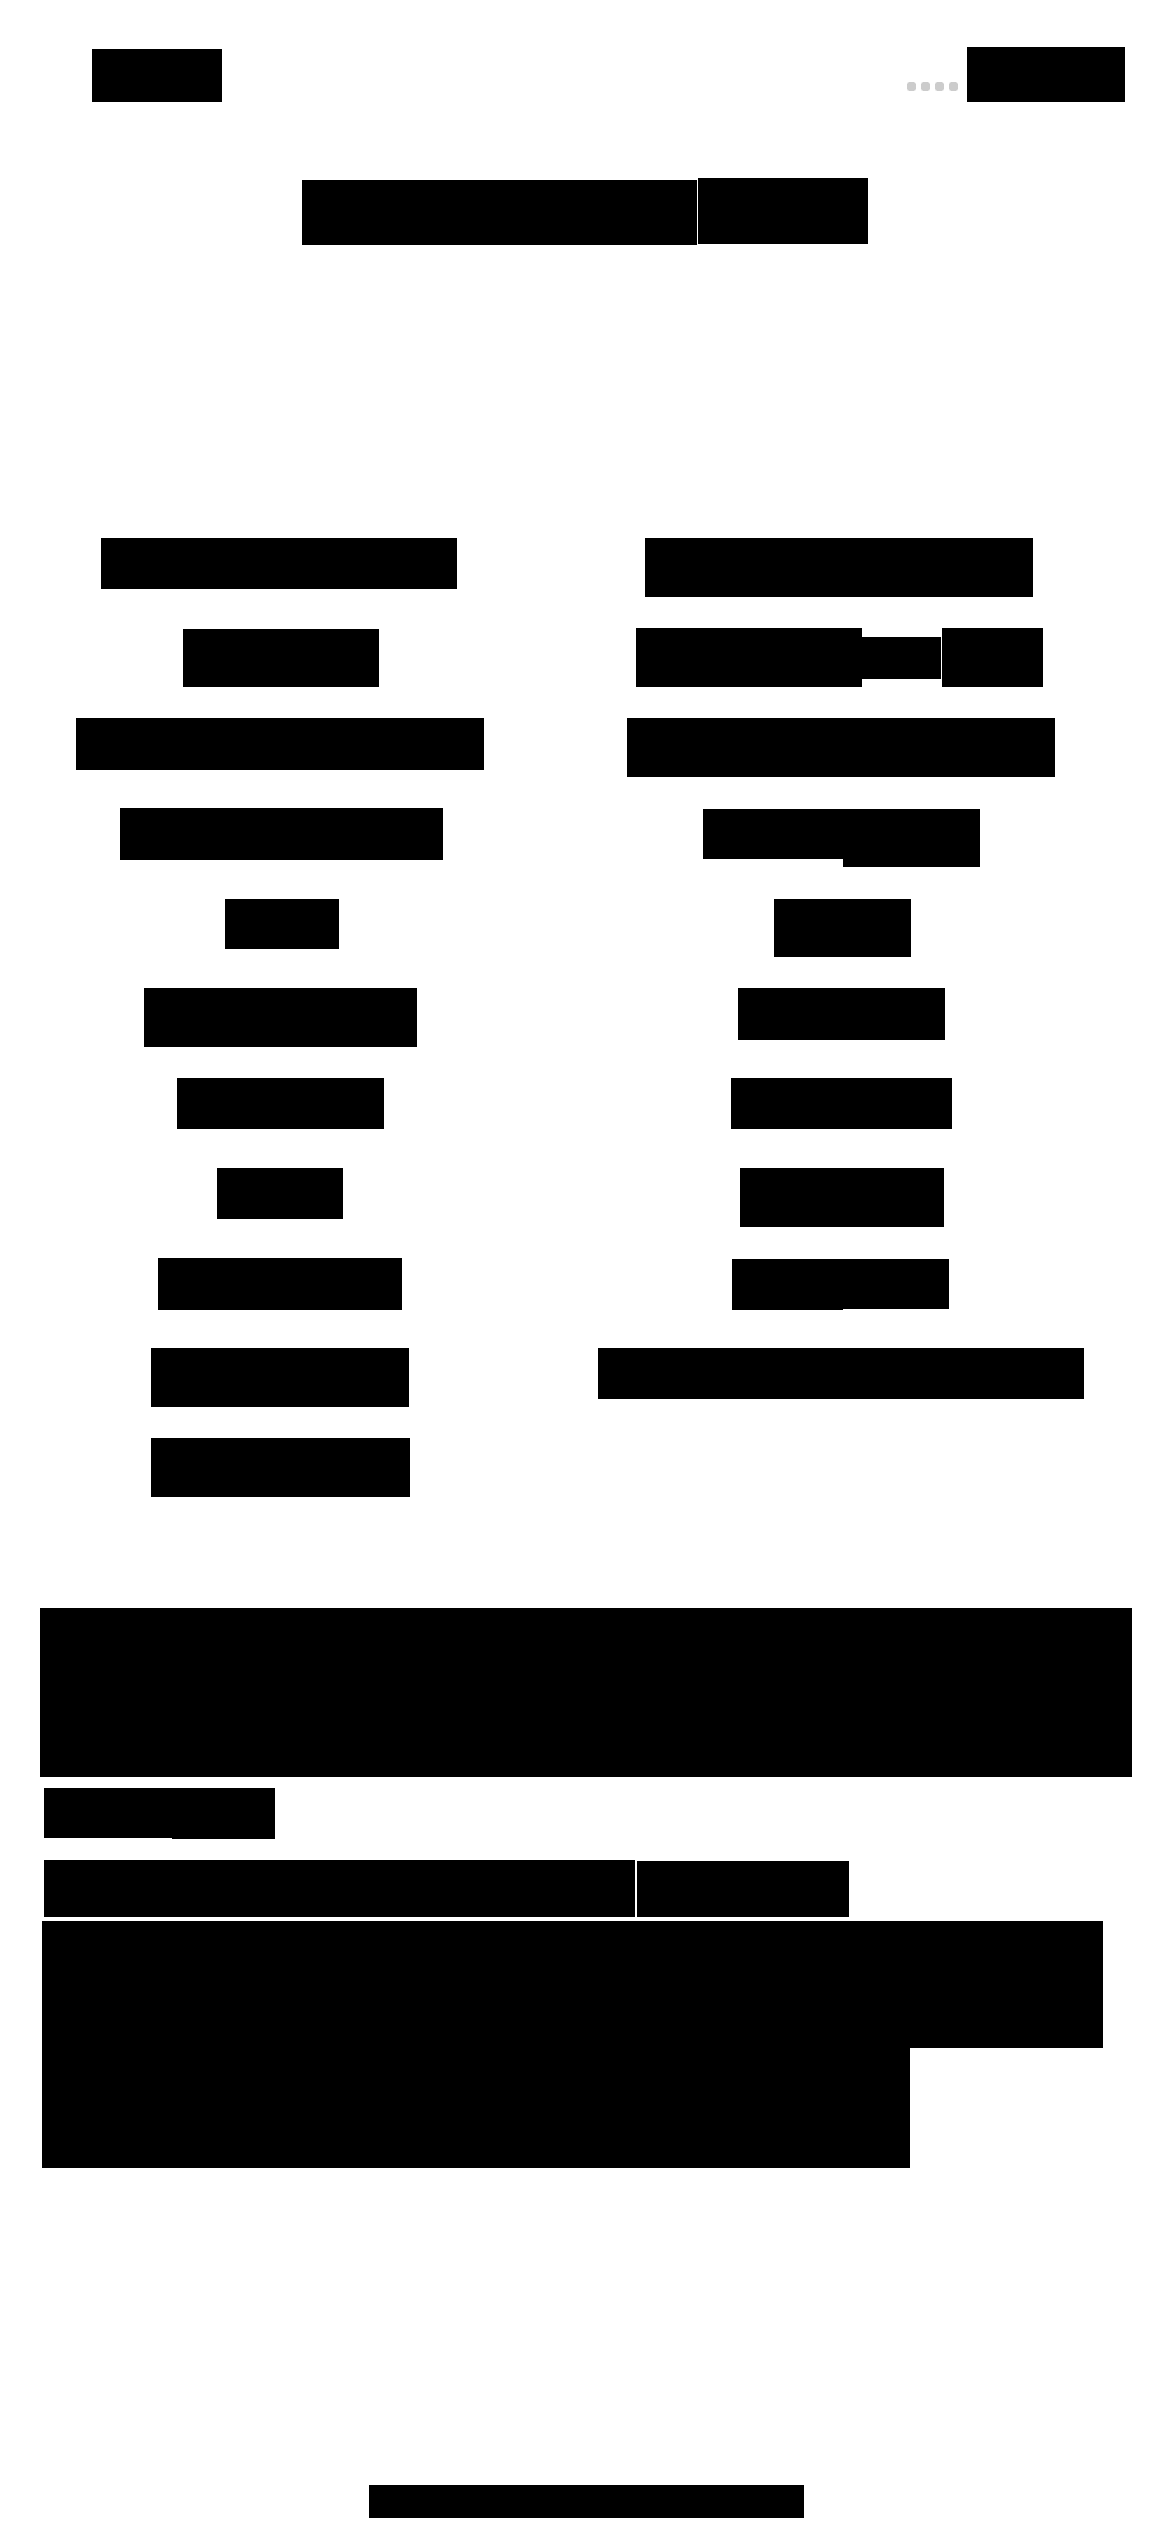
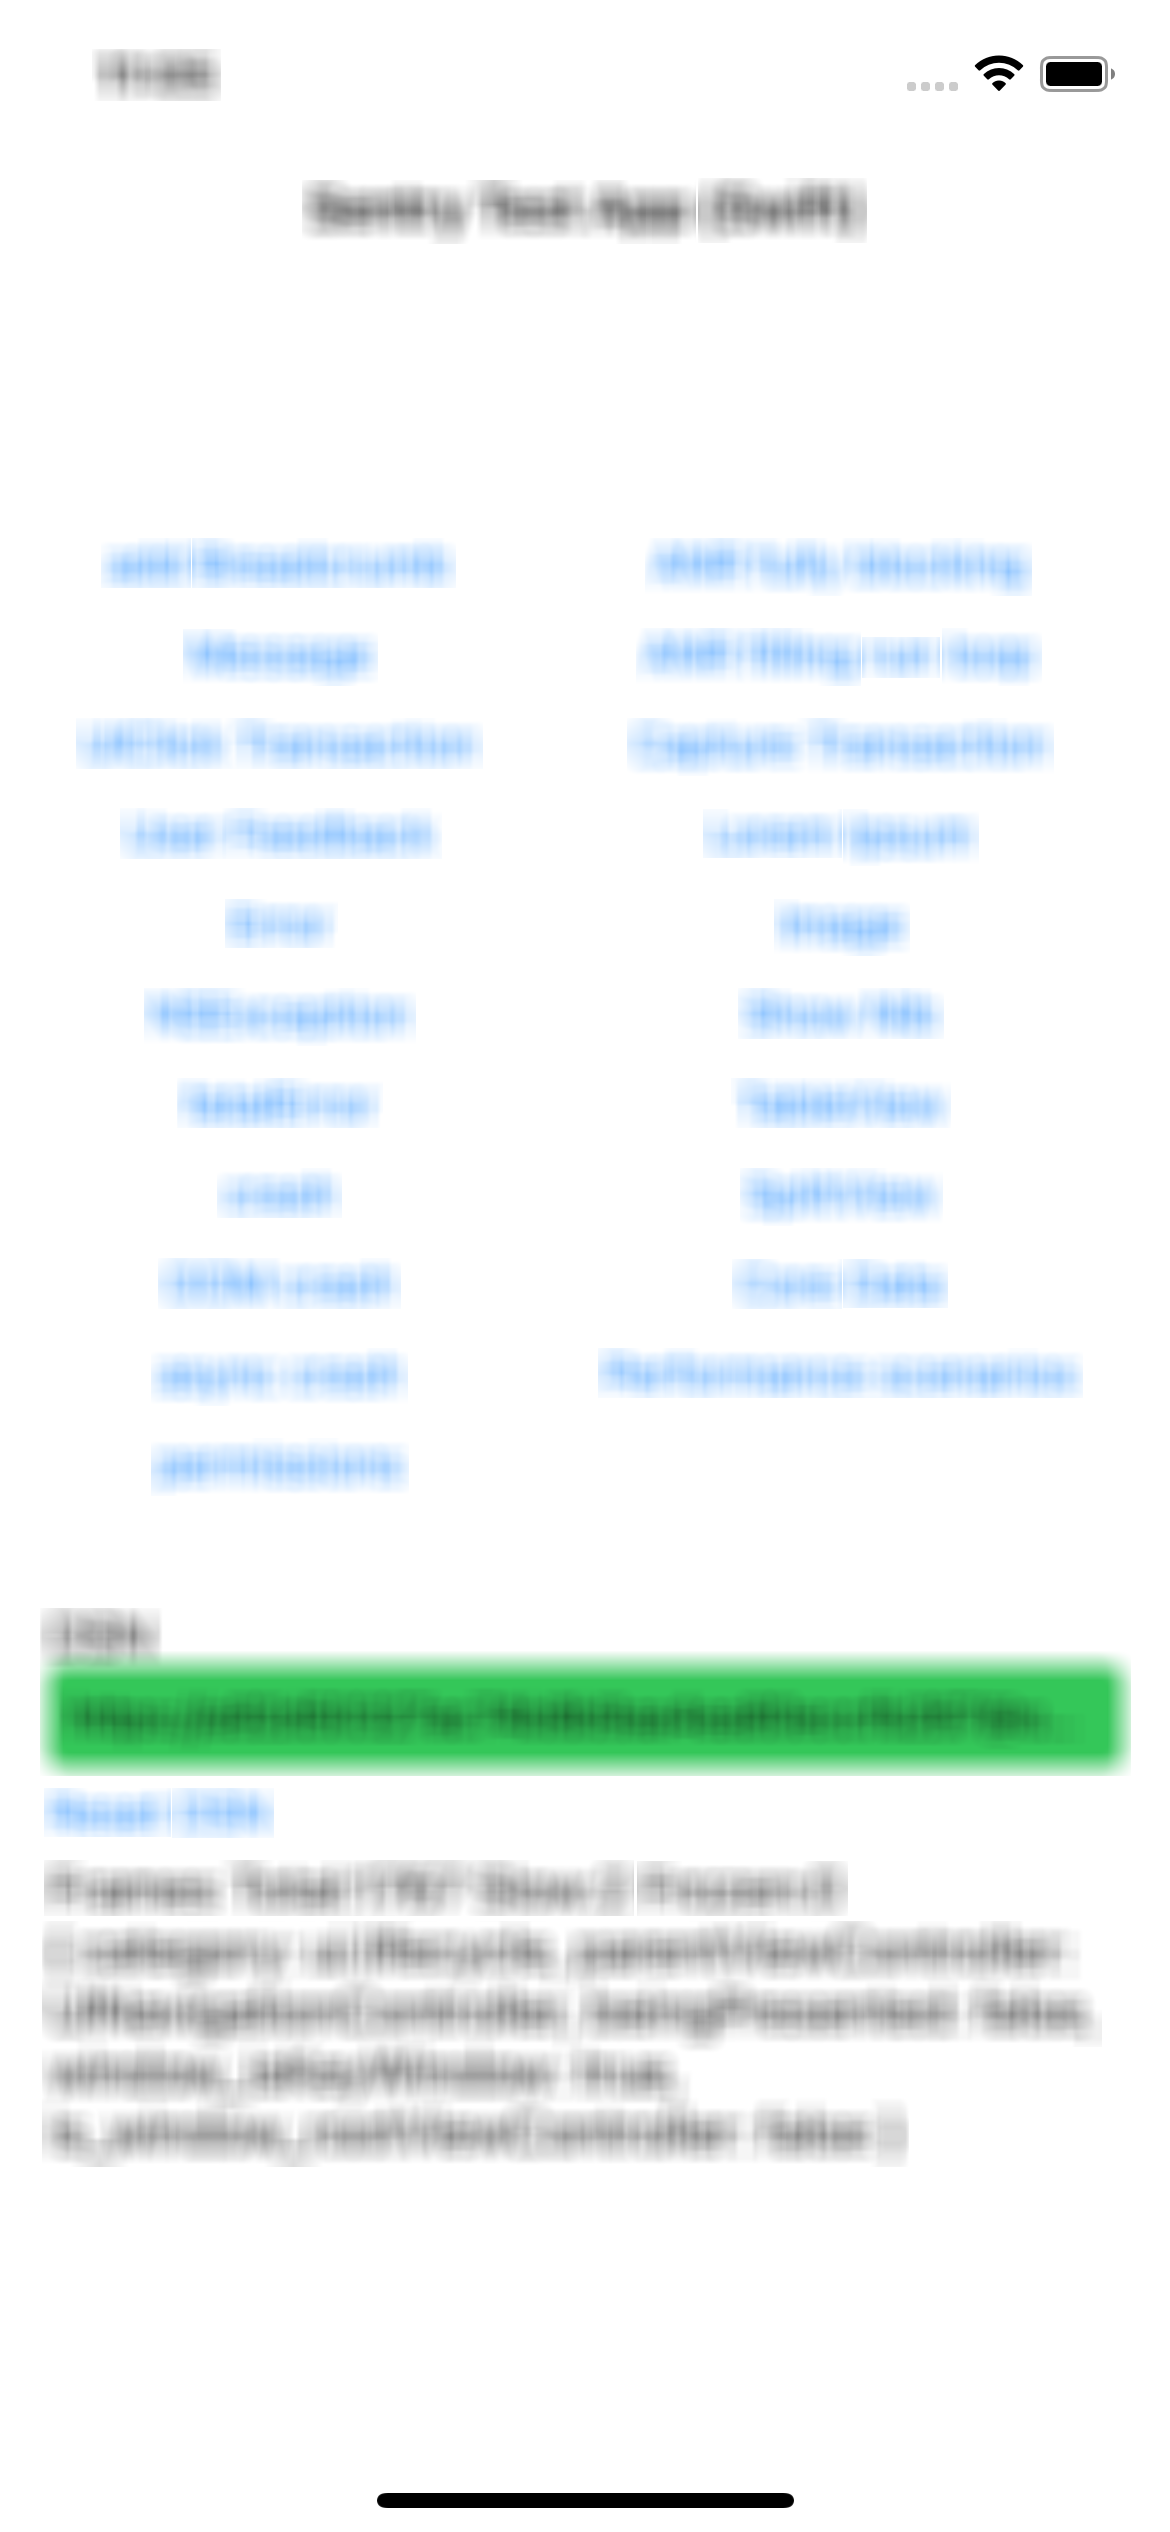
countour update with blur

diff --git a/strippers/contour.py b/strippers/contour.py
@@ -12,6 +12,9 @@ class ContourStripper:
     def strip(self):
         # Convert the image to gray scale
         gray = cv2.cvtColor(self.input_img, cv2.COLOR_BGR2GRAY)
+        
+        #blurried image
+        blurried = cv2.blur(self.input_img, (30, 30))
 
         # Performing OTSU threshold
         ret, thresh1 = cv2.threshold(gray, 0, 255, cv2.THRESH_OTSU | cv2.THRESH_BINARY_INV)
@@ -42,11 +45,10 @@ class ContourStripper:
             # Apply OCR on the cropped image
             text = pytesseract.image_to_string(cropped)
 
-            # Drawing a rectangle on copied image
-            rect = cv2.rectangle(self.output_img, (x, y), (x + w, y + h), (0, 0, 0), -1)
-
             if text:
                 print(f"{text} = {{{x},{y},{w},{h}}}\n")
+                #blurring the text square
+                self.output_img[y:y + h, x:x + w] = blurried[y:y + h, x:x + w]
 
         cv2.imwrite(self.output, self.output_img)
 
